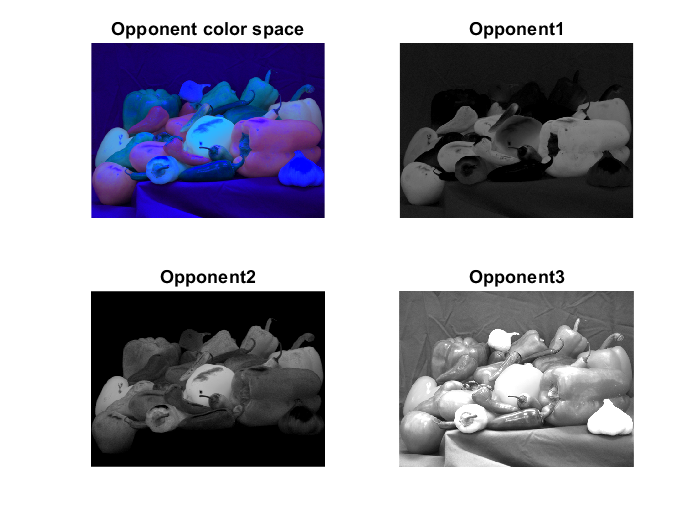
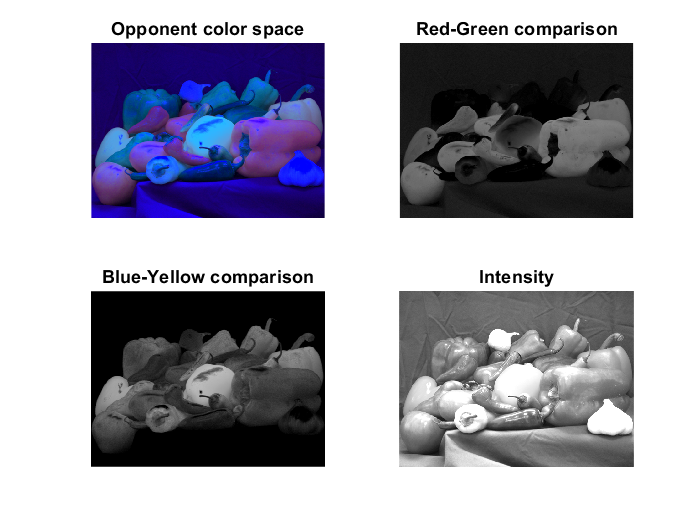
Minor updates in Opponent color space conversion

Changed region(s): [[0.6, 0.0305, 0.9, 0.0914], [0.15, 0.5181, 0.45, 0.5486], [0.66, 0.5181, 0.81, 0.5486]]

diff --git a/colorspace/ConvertColorSpace.m b/colorspace/ConvertColorSpace.m
@@ -19,7 +19,7 @@ input_image = im2double(input_image);
 
 if strcmp(colorspace, 'opponent')
     new_image = rgb2opponent(input_image);
-    titles = ["Opponent color space", "Opponent1", "Opponent2", "Opponent3"];
+    titles = ["Opponent color space", "Red-Green comparison", "Blue-Yellow comparison", "Intensity"];
 elseif strcmp(colorspace, 'rgb')  
     new_image = rgb2normedrgb(input_image);
     titles = ["Normalized RGB", "Normalized Red", "Normalized Green", "Normalized Blue"];
@@ -39,6 +39,6 @@ else
     return;
 end
 
-visualize(new_image, titles); % fill in this function
+visualize(new_image, titles);
 
 end
